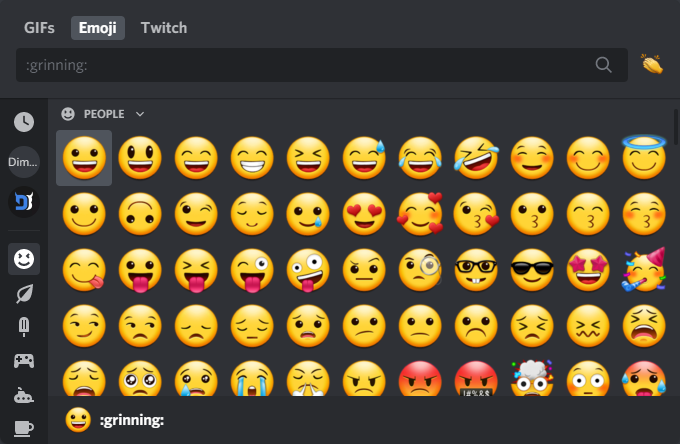
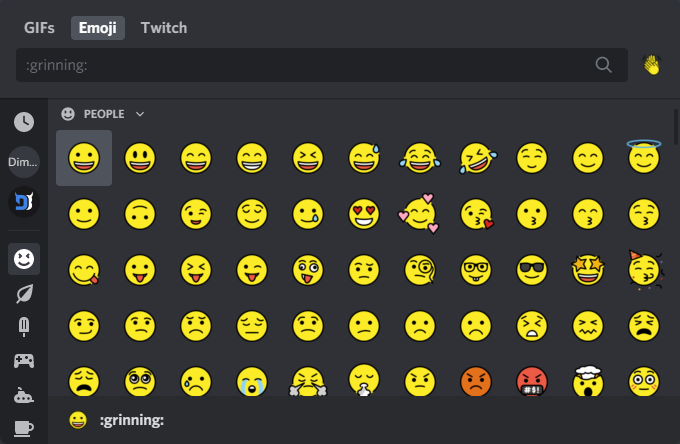
stuff

Changed region(s): [[0.0926, 0.2928, 0.9882, 0.9955], [0.9265, 0.1171, 0.9882, 0.1757]]

diff --git a/Themes/EmojiReplace/README.md b/Themes/EmojiReplace/README.md
@@ -35,10 +35,14 @@ Microsoft:
 
 ![screenshot5](https://mwittrien.github.io/BetterDiscordAddons/Themes/EmojiReplace/_res/screenshot5.png)
 
-Samsung:
+OpenMoji:
 
 ![screenshot6](https://mwittrien.github.io/BetterDiscordAddons/Themes/EmojiReplace/_res/screenshot6.png)
 
+Samsung:
+
+![screenshot6](https://mwittrien.github.io/BetterDiscordAddons/Themes/EmojiReplace/_res/screenshot7.png)
+
 WhatsApp:
 
-![screenshot7](https://mwittrien.github.io/BetterDiscordAddons/Themes/EmojiReplace/_res/screenshot7.png)
+![screenshot7](https://mwittrien.github.io/BetterDiscordAddons/Themes/EmojiReplace/_res/screenshot8.png)
